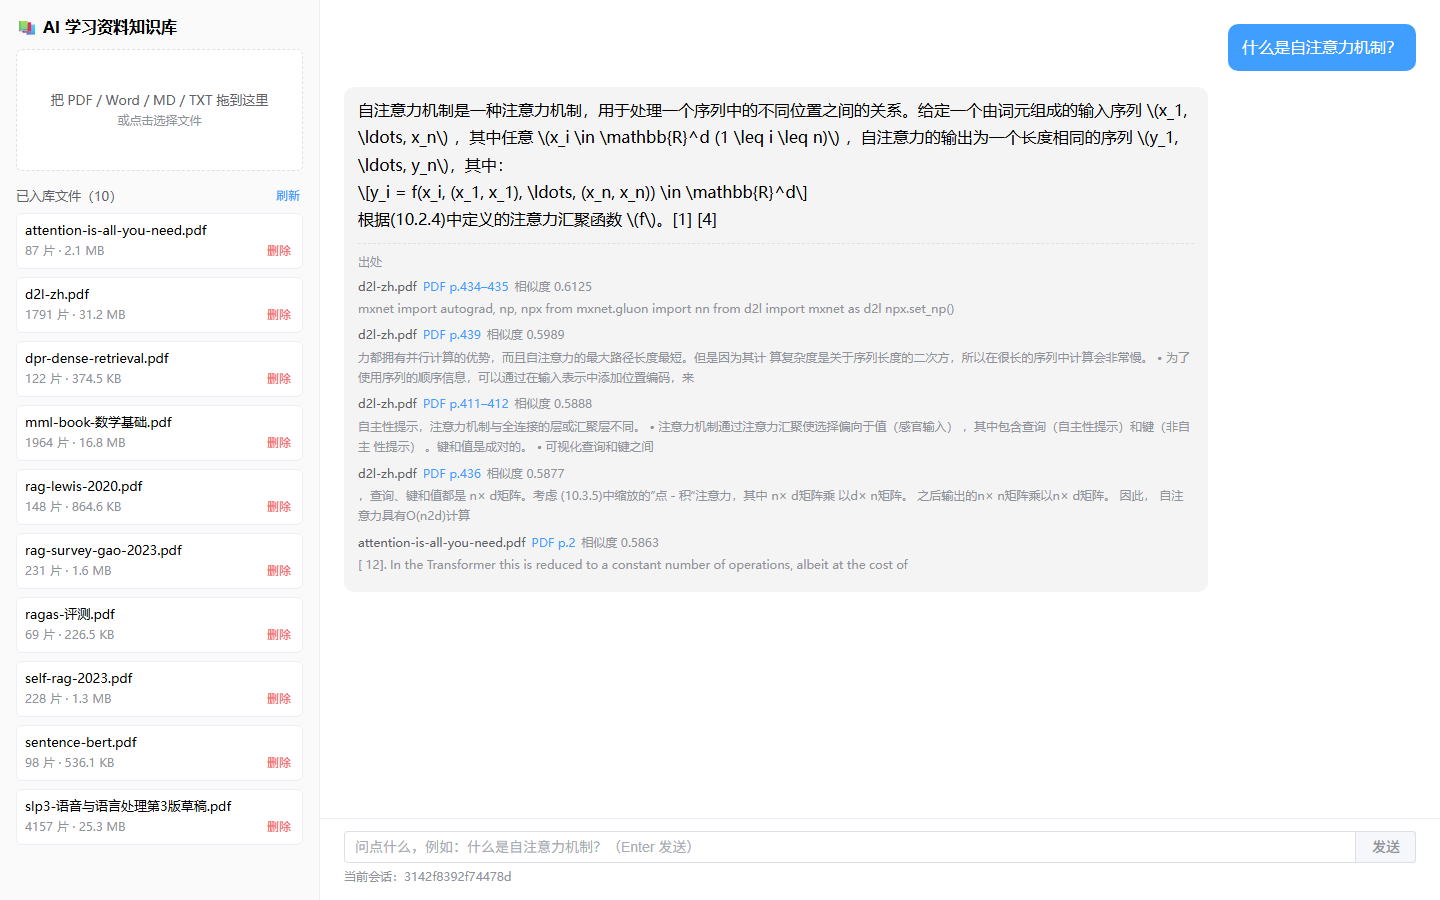
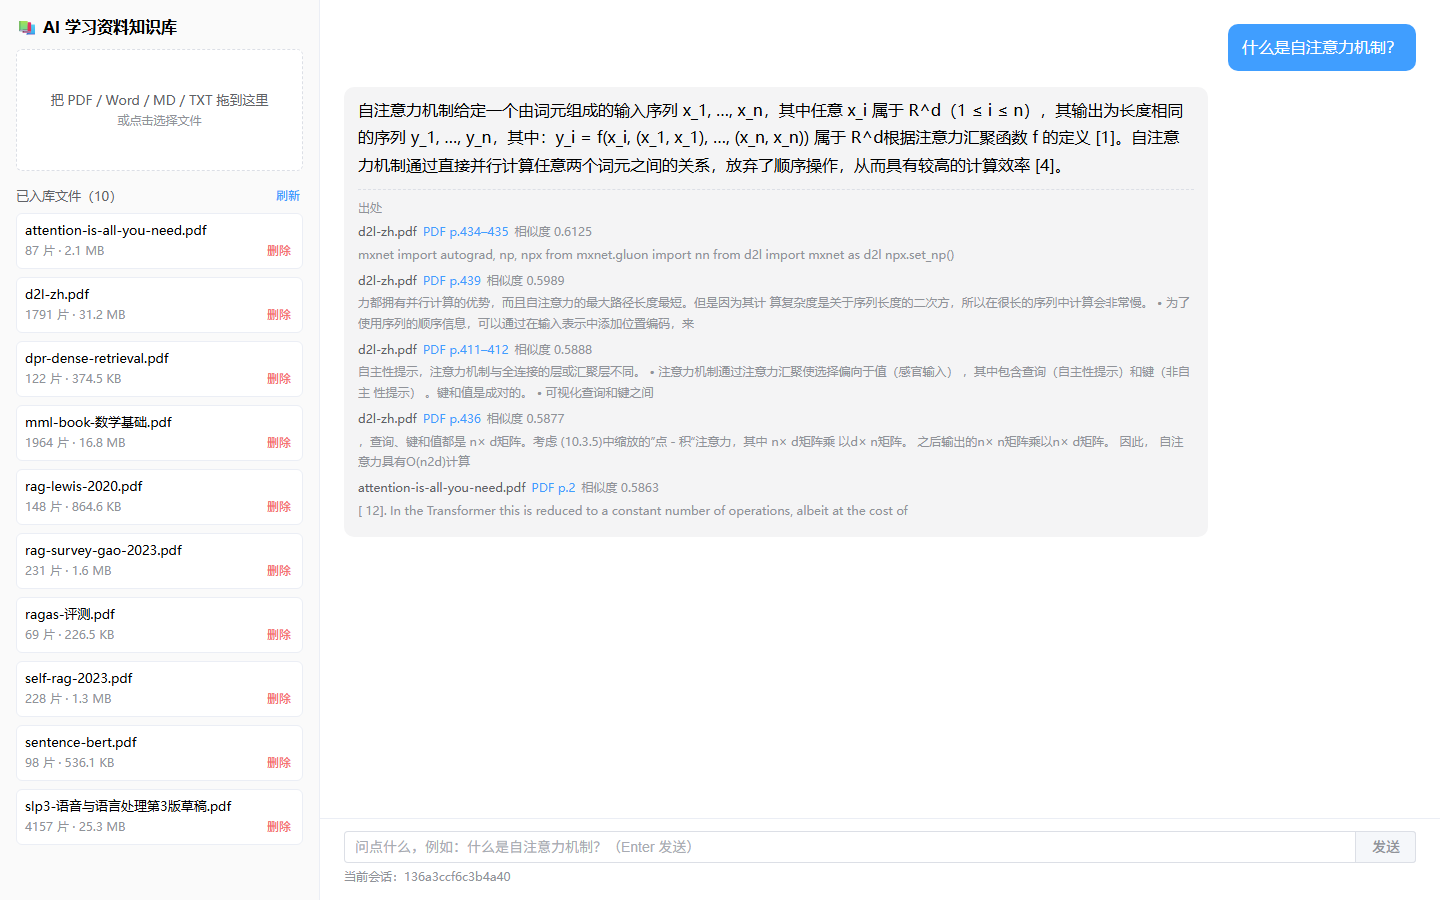
feat: 界面可切换本地/云端模型（回答模型下拉框）
后端：get_llm(provider=...)、ChatRequest.provider、GET /providers；前端：左侧「回答模型」下拉框，按 provider 发送请求，未配置 Key 时云端置灰。截图 docs/screenshots/ui-cloud.png 证明云端答案完全自然语言。计划书 v1.6 记录该需求。

Changed region(s): [[0.25, 0.0933, 0.8438, 0.6533], [0.2812, 0.9644, 0.3438, 0.9956]]

diff --git a/web/src/views/Chat.vue b/web/src/views/Chat.vue
@@ -4,6 +4,19 @@
     <el-aside width="320px" class="aside">
       <div class="brand">📚 AI 学习资料知识库</div>
 
+      <div class="model-picker">
+        <div class="picker-label">回答模型</div>
+        <el-select v-model="provider" size="small" style="width: 100%">
+          <el-option
+            v-for="p in providers"
+            :key="p.id"
+            :label="p.label"
+            :value="p.id"
+            :disabled="!p.available"
+          />
+        </el-select>
+      </div>
+
       <el-upload
         class="uploader"
         drag
@@ -105,7 +118,7 @@
 <script setup>
 import { nextTick, onMounted, ref } from 'vue'
 import { ElMessage } from 'element-plus'
-import { deleteFile, getFiles, streamChat, uploadFile } from '../api'
+import { deleteFile, getFiles, getProviders, streamChat, uploadFile } from '../api'
 
 const files = ref([])
 const messages = ref([])
@@ -116,6 +129,8 @@ const currentAnswer = ref('')
 const uploading = ref(false)
 const uploadPercent = ref(0)
 const scrollRef = ref(null)
+const providers = ref([])
+const provider = ref('')
 
 const examples = [
   '什么是自注意力机制？',
@@ -199,6 +214,8 @@ async function send() {
 
   try {
     await streamChat(q, {
+      // 把界面选择器里的模型传给后端：'ollama' 本地 / 'deepseek' 云端
+      provider: provider.value || undefined,
       onSources: (src) => {
         reply.sources = src
       },
@@ -221,10 +238,31 @@ async function send() {
   }
 }
 
-onMounted(loadFiles)
+async function loadProviders() {
+  try {
+    const { data } = await getProviders()
+    providers.value = data.items
+    provider.value = data.default
+  } catch (err) {
+    // 旧后端没有 /providers 时不影响主流程
+  }
+}
+
+onMounted(() => {
+  loadProviders()
+  loadFiles()
+})
 </script>
 
 <style scoped>
+.model-picker {
+  margin-bottom: 12px;
+}
+.picker-label {
+  font-size: 12px;
+  color: #909399;
+  margin-bottom: 4px;
+}
 .layout {
   height: 100vh;
 }

diff --git a/web/src/api.js b/web/src/api.js
@@ -10,6 +10,10 @@ export function getHealth() {
   return http.get('/health')
 }
 
+export function getProviders() {
+  return http.get('/providers')
+}
+
 export function getFiles() {
   return http.get('/files')
 }
@@ -35,11 +39,11 @@ export function uploadFile(file, onProgress) {
  * @param {string} question
  * @param {{onSources:Function, onToken:Function, onDone:Function, signal?:AbortSignal}} handlers
  */
-export async function streamChat(question, { onSources, onToken, onDone, signal }) {
+export async function streamChat(question, { provider, onSources, onToken, onDone, signal }) {
   const resp = await fetch('/api/chat/stream', {
     method: 'POST',
     headers: { 'Content-Type': 'application/json' },
-    body: JSON.stringify({ question }),
+    body: JSON.stringify({ question, provider }),
     signal
   })
   if (!resp.ok) {

diff --git a/app/main.py b/app/main.py
@@ -95,6 +95,7 @@ class ChatRequest(BaseModel):
     question: str = Field(..., min_length=1, description="用户问题")
     session_id: str | None = Field(default=None, description="会话 ID，留空则新建")
     history: list[dict] | None = Field(default=None, description="历史消息（可选，前端回传）")
+    provider: str | None = Field(default=None, description="模型来源：ollama（本地）/ deepseek（云端），留空用默认")
 
 
 @app.get("/health")
@@ -107,6 +108,15 @@ def health() -> dict:
     return {"status": "ok", "chunks": count, "provider": settings.llm_provider,
             "chat_model": settings.ollama_model if settings.llm_provider == "ollama"
             else settings.deepseek_model}
+
+
+@app.get("/providers")
+def providers() -> dict:
+    """返回可选模型列表，供前端下拉框使用。未配置 Key 的云端不会出现。"""
+    items = [{"id": "ollama", "label": f"本地 {settings.ollama_model}", "available": True}]
+    cloud_ok = bool(settings.deepseek_api_key and settings.deepseek_api_key != "sk-xxxx")
+    items.append({"id": "deepseek", "label": f"云端 {settings.deepseek_model}", "available": cloud_ok})
+    return {"default": settings.llm_provider, "items": items}
 
 
 @app.post("/upload")
@@ -150,7 +160,7 @@ def chat(req: ChatRequest) -> dict:
     if not req.question.strip():
         raise HTTPException(status_code=400, detail="问题不能为空")
     try:
-        result = rag.answer(req.question)
+        result = rag.answer(req.question, provider=req.provider)
     except Exception as exc:  # noqa: BLE001
         raise HTTPException(status_code=500, detail=f"生成失败：{exc}") from exc
 
@@ -190,7 +200,7 @@ def chat_stream(req: ChatRequest) -> StreamingResponse:
                 # 既保留「逐渐出现」的观感，又保证前端看到的是自然语言。
                 buffer = ""
                 first_sent = False
-                for piece in get_llm().stream(prompt):
+                for piece in get_llm(provider=req.provider).stream(prompt):
                     chunk = piece.content if isinstance(piece.content, str) else str(piece.content)
                     if not chunk:
                         continue

diff --git a/app/llm.py b/app/llm.py
@@ -28,9 +28,13 @@ from langchain_openai import ChatOpenAI
 from app.config import settings
 
 
-def get_llm(temperature: float = 0.0) -> BaseChatModel:
-    """按配置返回聊天模型实例。provider 不认识时抛 ValueError，不静默兜底。"""
-    provider = settings.llm_provider.lower()
+def get_llm(temperature: float = 0.0, provider: str | None = None) -> BaseChatModel:
+    """返回聊天模型实例。provider 显式传入时优先（支持界面上临时切云端/本地）。
+
+    参数
+        provider: "ollama" 或 "deepseek"；None 时用 .env 的 LLM_PROVIDER
+    """
+    provider = (provider or settings.llm_provider).lower()
 
     if provider == "ollama":
         return ChatOllama(

diff --git a/README.md b/README.md
@@ -90,6 +90,18 @@ Ollama 仍跑在宿主机，容器通过 `host.docker.internal:11434` 访问（c
 
 > 说明：本机当前未安装 Docker，这一项**尚未实机验证**，验证后再更新本段。
 
+### 切换回答模型（界面上直接选）
+
+![云端模型](docs/screenshots/ui-cloud.png)
+
+左侧栏顶部有「回答模型」下拉框：
+
+- **本地 qwen2.5:7b** —— 免费、离线，回答偏公式化；
+- **云端 deepseek-chat** —— 回答更自然、准确率更高（86.7% vs 76.7%），需联网并消耗少量 token。
+
+后端对应 `POST /chat`、`/chat/stream` 的 `provider` 字段（`ollama` / `deepseek`），
+未传时用 `.env` 的 `LLM_PROVIDER`。云端未配置 Key 时下拉项自动置灰。
+
 ## 配置（`.env`）
 
 | 键 | 默认 | 说明 |
@@ -117,6 +129,7 @@ Ollama 仍跑在宿主机，容器通过 `host.docker.internal:11434` 访问（c
 | GET | `/files` | 已入库文件（文件名、大小、切片数） |
 | DELETE | `/files/{name}` | 删除文件及其向量 |
 | GET | `/sessions/{id}` | 按会话 ID 取回历史 |
+| GET | `/providers` | 可选模型列表（供界面下拉框） |
 
 ## 项目结构
 
